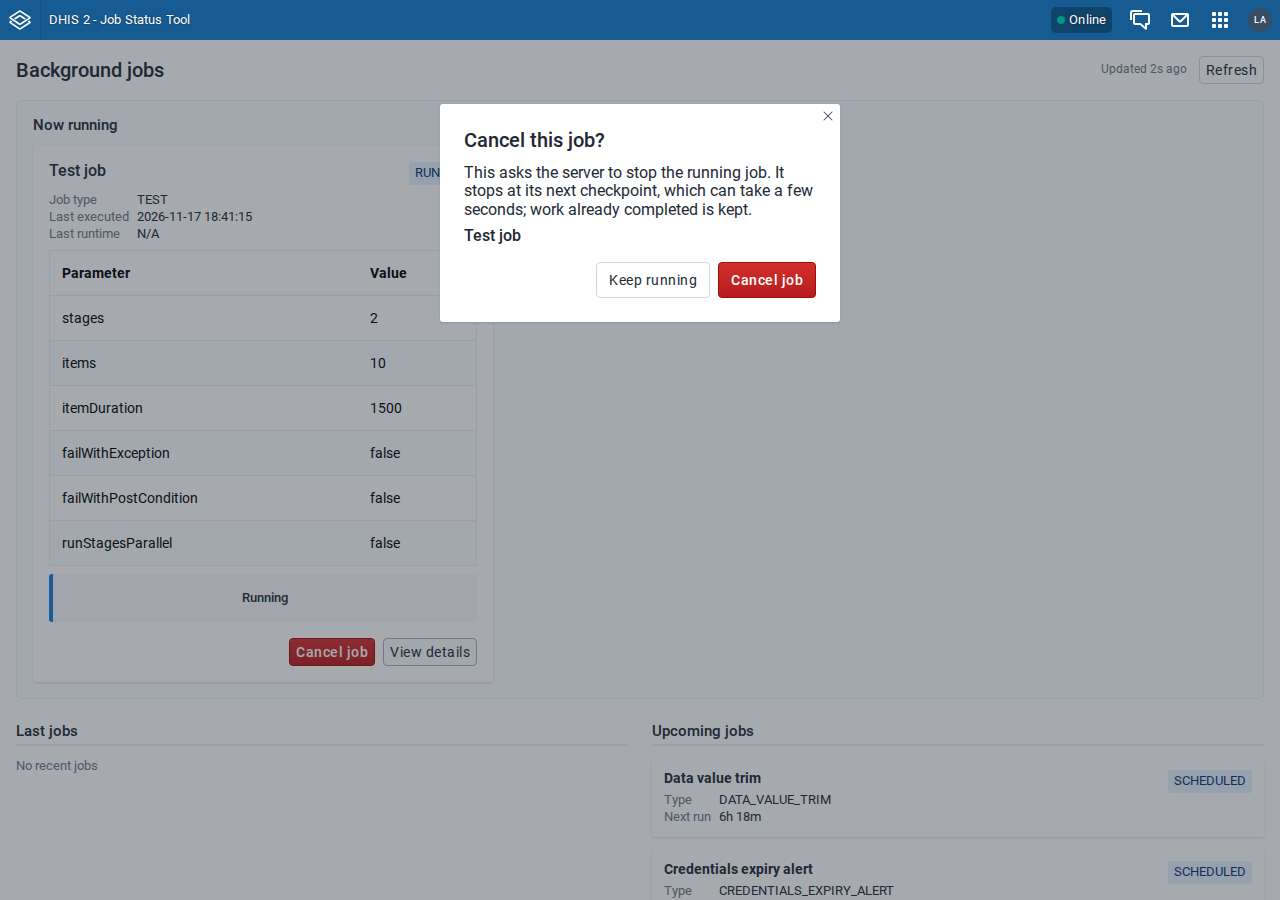
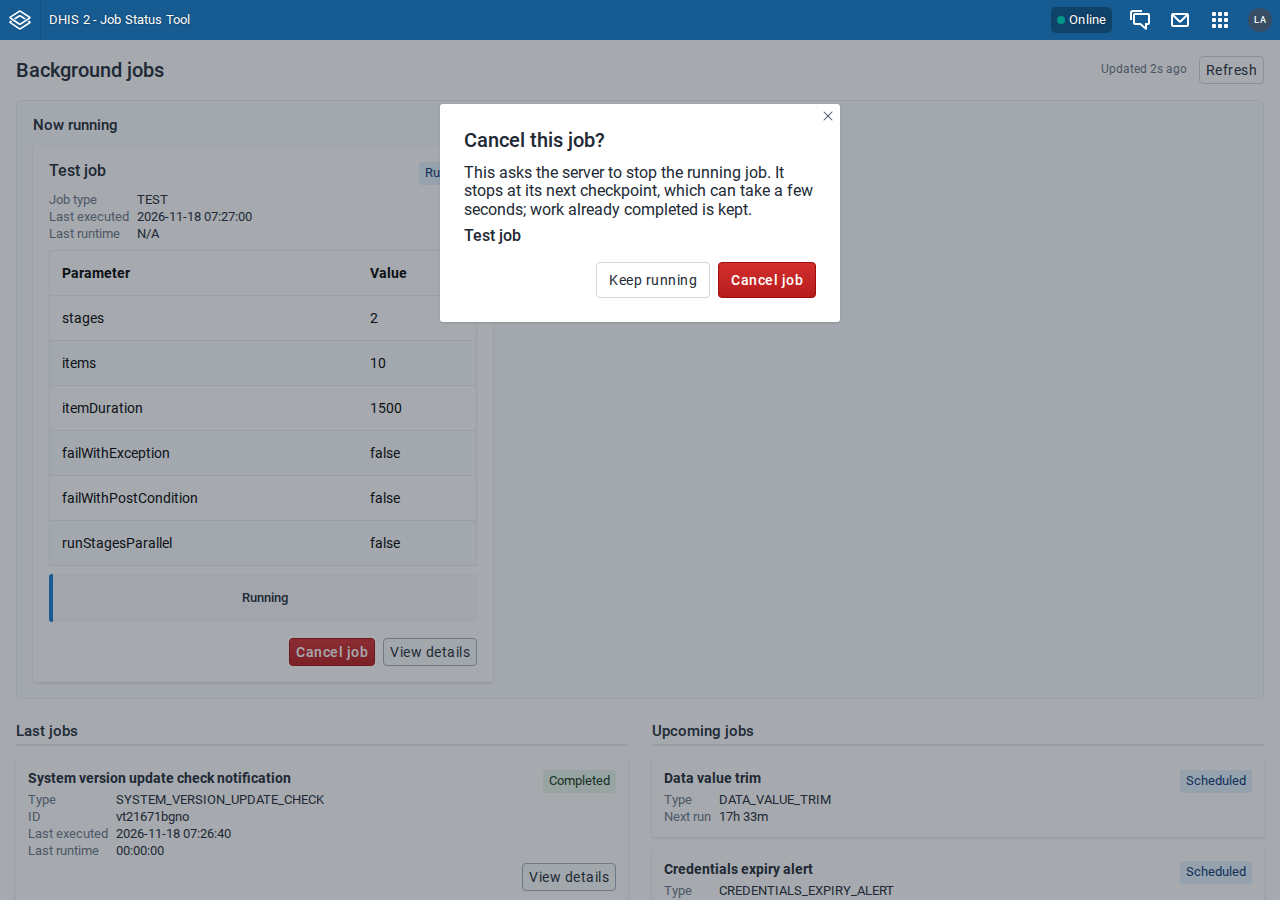
Translate the remaining fixed text; drop the pass-through test helper
The status tag shows a translatable label ("Completed") for the seven
statuses DHIS2 2.40-2.43 report, and an unknown status as the server
sent it. "Running", "Processing", "N/A", "Due now", the countdown units
and the prediction summary labels go through i18n.t; all keys checked
in the extracted en.pot. renderWithProviders was render under another
name; the component tests call render. User docs and screenshots
updated for the new labels.

diff --git a/src/utils/jobParsing.ts b/src/utils/jobParsing.ts
@@ -1,3 +1,4 @@
+import i18n from '@dhis2/d2-i18n'
 import type { JobParameters, Task } from '@/types/jobs'
 
 /*
@@ -36,7 +37,7 @@ export const deriveJobProgress = (tasks: Task[] | undefined): JobProgress => {
     )
     const latestMessage = latest?.message?.trim()
     if (!latest || !latestMessage) {
-        return { percentage: null, text: 'Running' }
+        return { percentage: null, text: i18n.t('Running') }
     }
 
     const match =
@@ -49,12 +50,15 @@ export const deriveJobProgress = (tasks: Task[] | undefined): JobProgress => {
         const actionTask = tasks?.find(
             (task) => task.level === 'INFO' && Boolean(task.message?.trim())
         )
-        const action = actionTask?.message?.trim() || 'Processing'
+        const action = actionTask?.message?.trim() || i18n.t('Processing')
         return { percentage, text: action }
     }
 
     return { percentage: null, text: latestMessage }
 }
+
+/** Shown for a value the API did not send. */
+const notAvailable = (): string => i18n.t('N/A')
 
 export interface PredictionSummary {
     status?: string
@@ -116,12 +120,27 @@ export const findPredictionSummary = (
 export const predictionSummaryRows = (
     summary: PredictionSummary
 ): Array<{ label: string; value: string }> => [
-    { label: 'Status', value: summary.status ?? 'N/A' },
-    { label: 'Predictors', value: summary.predictors ?? 'N/A' },
-    { label: 'Inserted values', value: summary.inserted ?? 'N/A' },
-    { label: 'Updated values', value: summary.updated ?? 'N/A' },
-    { label: 'Deleted values', value: summary.deleted ?? 'N/A' },
-    { label: 'Unchanged values', value: summary.unchanged ?? 'N/A' },
+    { label: i18n.t('Status'), value: summary.status ?? notAvailable() },
+    {
+        label: i18n.t('Predictors'),
+        value: summary.predictors ?? notAvailable(),
+    },
+    {
+        label: i18n.t('Inserted values'),
+        value: summary.inserted ?? notAvailable(),
+    },
+    {
+        label: i18n.t('Updated values'),
+        value: summary.updated ?? notAvailable(),
+    },
+    {
+        label: i18n.t('Deleted values'),
+        value: summary.deleted ?? notAvailable(),
+    },
+    {
+        label: i18n.t('Unchanged values'),
+        value: summary.unchanged ?? notAvailable(),
+    },
 ]
 
 /**
@@ -265,26 +284,27 @@ export const formatTimeUntil = (
     serverTimeZone?: string
 ): string => {
     if (!nextExecutionTime) {
-        return 'N/A'
+        return notAvailable()
     }
     const next = parseServerDateTime(nextExecutionTime, serverTimeZone)
     if (Number.isNaN(next)) {
-        return 'N/A'
+        return notAvailable()
     }
 
     const diffMinutes = Math.floor((next - now.getTime()) / 60000)
     if (diffMinutes <= 0) {
-        return 'Due now'
+        return i18n.t('Due now')
     }
 
     const days = Math.floor(diffMinutes / (60 * 24))
     const hours = Math.floor((diffMinutes % (60 * 24)) / 60)
     const minutes = diffMinutes % 60
 
+    // No colon in these keys: the i18n extractor reads ':' as a namespace.
     if (days > 0) {
-        return `${days}d ${hours}h`
+        return i18n.t('{{days}}d {{hours}}h', { days, hours })
     }
-    return `${hours}h ${minutes}m`
+    return i18n.t('{{hours}}h {{minutes}}m', { hours, minutes })
 }
 
 const pad = (n: number): string => String(n).padStart(2, '0')
@@ -297,7 +317,7 @@ const pad = (n: number): string => String(n).padStart(2, '0')
  */
 export const formatDateTime = (iso: string | undefined): string => {
     if (!iso) {
-        return 'N/A'
+        return notAvailable()
     }
     const date = new Date(iso)
     if (Number.isNaN(date.getTime())) {
@@ -315,7 +335,7 @@ export const formatDateTime = (iso: string | undefined): string => {
  */
 export const formatDuration = (duration: string | undefined): string => {
     if (!duration) {
-        return 'N/A'
+        return notAvailable()
     }
     return duration.split('.')[0]
 }

diff --git a/src/components/CancelJobButton.test.tsx b/src/components/CancelJobButton.test.tsx
@@ -1,10 +1,9 @@
-import { act, screen, within } from '@testing-library/react'
+import { act, render, screen, within } from '@testing-library/react'
 import userEvent from '@testing-library/user-event'
 import React from 'react'
 import { CANCEL_GRACE_MS, CancelJobButton } from '@/components/CancelJobButton'
 import * as useCanCancelJobsModule from '@/hooks/useCanCancelJobs'
 import * as useCancelJobModule from '@/hooks/useCancelJob'
-import { renderWithProviders } from '@/test-utils'
 import type { EnhancedJob } from '@/types/jobs'
 
 jest.mock('@/hooks/useCancelJob')
@@ -37,13 +36,13 @@ describe('CancelJobButton', () => {
         jest.spyOn(useCanCancelJobsModule, 'useCanCancelJobs').mockReturnValue(
             () => false
         )
-        const { container } = renderWithProviders(<CancelJobButton job={job} />)
+        const { container } = render(<CancelJobButton job={job} />)
         expect(container).toBeEmptyDOMElement()
     })
 
     it('asks for confirmation before cancelling', async () => {
         const user = userEvent.setup()
-        renderWithProviders(<CancelJobButton job={job} />)
+        render(<CancelJobButton job={job} />)
 
         expect(screen.queryByText('Cancel this job?')).not.toBeInTheDocument()
         await user.click(screen.getByTestId('cancel-job-button'))
@@ -53,7 +52,7 @@ describe('CancelJobButton', () => {
 
     it('does not cancel when the user keeps the job running', async () => {
         const user = userEvent.setup()
-        renderWithProviders(<CancelJobButton job={job} />)
+        render(<CancelJobButton job={job} />)
 
         await user.click(screen.getByTestId('cancel-job-button'))
         await user.click(screen.getByRole('button', { name: 'Keep running' }))
@@ -64,7 +63,7 @@ describe('CancelJobButton', () => {
 
     it('calls cancelJob with the job id on confirmation', async () => {
         const user = userEvent.setup()
-        renderWithProviders(<CancelJobButton job={job} />)
+        render(<CancelJobButton job={job} />)
 
         await user.click(screen.getByTestId('cancel-job-button'))
         const strip = screen.getByTestId('dhis2-uicore-buttonstrip')
@@ -82,7 +81,7 @@ describe('CancelJobButton', () => {
             opts?.onSettled?.()
         })
         const user = userEvent.setup()
-        renderWithProviders(<CancelJobButton job={job} />)
+        render(<CancelJobButton job={job} />)
 
         await user.click(screen.getByTestId('cancel-job-button'))
         const strip = screen.getByTestId('dhis2-uicore-buttonstrip')
@@ -105,7 +104,7 @@ describe('CancelJobButton', () => {
             const user = userEvent.setup({
                 advanceTimers: jest.advanceTimersByTime,
             })
-            renderWithProviders(<CancelJobButton job={job} />)
+            render(<CancelJobButton job={job} />)
 
             await user.click(screen.getByTestId('cancel-job-button'))
             const strip = screen.getByTestId('dhis2-uicore-buttonstrip')
@@ -133,9 +132,7 @@ describe('CancelJobButton', () => {
         })
         const user = userEvent.setup()
         const firstRun = { ...job, lastExecuted: '2026-09-03T10:00:00.000' }
-        const { rerender } = renderWithProviders(
-            <CancelJobButton job={firstRun} />
-        )
+        const { rerender } = render(<CancelJobButton job={firstRun} />)
 
         await user.click(screen.getByTestId('cancel-job-button'))
         const strip = screen.getByTestId('dhis2-uicore-buttonstrip')

diff --git a/src/components/JobStatusPage.test.tsx b/src/components/JobStatusPage.test.tsx
@@ -1,9 +1,8 @@
-import { screen } from '@testing-library/react'
+import { render, screen } from '@testing-library/react'
 import userEvent from '@testing-library/user-event'
 import React from 'react'
 import { JobStatusPage } from '@/components/JobStatusPage'
 import * as useJobsModule from '@/hooks/useJobs'
-import { renderWithProviders } from '@/test-utils'
 
 jest.mock('@/hooks/useJobs')
 // The details modal fetches task history; keep it inert for these tests.
@@ -33,20 +32,20 @@ describe('JobStatusPage', () => {
 
     it('shows a loader while the first fetch is in flight', () => {
         mockUseJobs({ isLoading: true })
-        renderWithProviders(<JobStatusPage />)
+        render(<JobStatusPage />)
         expect(screen.getByRole('progressbar')).toBeInTheDocument()
     })
 
     it('shows an error notice when the fetch fails', () => {
         mockUseJobs({ error: new Error('Network down') })
-        renderWithProviders(<JobStatusPage />)
+        render(<JobStatusPage />)
         expect(screen.getByText('Error loading jobs')).toBeInTheDocument()
         expect(screen.getByText('Network down')).toBeInTheDocument()
     })
 
     it('renders the empty running state and the two job lists', () => {
         mockUseJobs({ jobs: [] })
-        renderWithProviders(<JobStatusPage />)
+        render(<JobStatusPage />)
         expect(screen.getByText('No running jobs')).toBeInTheDocument()
         expect(screen.getByText('Last jobs')).toBeInTheDocument()
         expect(screen.getByText('Upcoming jobs')).toBeInTheDocument()
@@ -77,7 +76,7 @@ describe('JobStatusPage', () => {
                 },
             ],
         })
-        renderWithProviders(<JobStatusPage />)
+        render(<JobStatusPage />)
         expect(screen.getByText('Ran once')).toBeInTheDocument()
         expect(screen.queryByText('Never ran')).not.toBeInTheDocument()
     })
@@ -94,7 +93,7 @@ describe('JobStatusPage', () => {
             isRunning: false,
         }
         mockUseJobs({ jobs: [job] })
-        const { rerender } = renderWithProviders(<JobStatusPage />)
+        const { rerender } = render(<JobStatusPage />)
 
         await user.click(screen.getByRole('button', { name: 'View details' }))
         expect(screen.getByText(/Job details/)).toBeInTheDocument()

diff --git a/src/components/RunningJobs.test.tsx b/src/components/RunningJobs.test.tsx
@@ -1,7 +1,6 @@
-import { screen } from '@testing-library/react'
+import { render, screen } from '@testing-library/react'
 import React from 'react'
 import { RunningJobs } from '@/components/RunningJobs'
-import { renderWithProviders } from '@/test-utils'
 import type { EnhancedJob } from '@/types/jobs'
 
 // JobProgress polls the per-job endpoint and CancelJobButton mutates via the
@@ -32,14 +31,12 @@ const job = (overrides: Partial<EnhancedJob>): EnhancedJob => ({
 
 describe('RunningJobs', () => {
     it('shows the empty state when nothing is running', () => {
-        renderWithProviders(
-            <RunningJobs jobs={[]} onViewDetails={() => undefined} />
-        )
+        render(<RunningJobs jobs={[]} onViewDetails={() => undefined} />)
         expect(screen.getByText('No running jobs')).toBeInTheDocument()
     })
 
     it('excludes HOUSEKEEPING from the running view', () => {
-        renderWithProviders(
+        render(
             <RunningJobs
                 jobs={[
                     job({
@@ -55,7 +52,7 @@ describe('RunningJobs', () => {
     })
 
     it('renders an independent running job under "Now running"', () => {
-        renderWithProviders(
+        render(
             <RunningJobs
                 jobs={[job({ displayName: 'Lonely job' })]}
                 onViewDetails={() => undefined}
@@ -83,9 +80,7 @@ describe('RunningJobs', () => {
                 jobStatus: 'SCHEDULED',
             }),
         ]
-        renderWithProviders(
-            <RunningJobs jobs={jobs} onViewDetails={() => undefined} />
-        )
+        render(<RunningJobs jobs={jobs} onViewDetails={() => undefined} />)
         expect(screen.getByText('nightly')).toBeInTheDocument()
         expect(screen.getByText('First')).toBeInTheDocument()
         expect(screen.getByText('Second')).toBeInTheDocument()

diff --git a/src/components/JobStatusTag.tsx b/src/components/JobStatusTag.tsx
@@ -23,6 +23,28 @@ const tagColorForStatus = (
     }
 }
 
+/**
+ * Translatable labels for the statuses DHIS2 2.40-2.43 report. Functions, so
+ * that i18n.t runs at render time, after the locale has loaded.
+ */
+const STATUS_LABELS: Record<string, () => string> = {
+    RUNNING: () => i18n.t('Running'),
+    SCHEDULED: () => i18n.t('Scheduled'),
+    DISABLED: () => i18n.t('Disabled'),
+    COMPLETED: () => i18n.t('Completed'),
+    STOPPED: () => i18n.t('Stopped'),
+    FAILED: () => i18n.t('Failed'),
+    NOT_STARTED: () => i18n.t('Not started'),
+}
+
+/** A status this tool does not know is shown as the server sent it. */
+const statusLabel = (status: JobStatus | undefined): string => {
+    if (!status) {
+        return i18n.t('Unknown')
+    }
+    return STATUS_LABELS[status]?.() ?? status
+}
+
 export const JobStatusTag: React.FC<{ status?: JobStatus }> = ({ status }) => (
-    <Tag {...tagColorForStatus(status)}>{status || i18n.t('Unknown')}</Tag>
+    <Tag {...tagColorForStatus(status)}>{statusLabel(status)}</Tag>
 )

diff --git a/src/components/JobStatusTag.test.tsx b/src/components/JobStatusTag.test.tsx
@@ -1,0 +1,28 @@
+import { render, screen } from '@testing-library/react'
+import React from 'react'
+import { JobStatusTag } from '@/components/JobStatusTag'
+
+describe('JobStatusTag', () => {
+    it.each([
+        ['RUNNING', 'Running'],
+        ['SCHEDULED', 'Scheduled'],
+        ['DISABLED', 'Disabled'],
+        ['COMPLETED', 'Completed'],
+        ['STOPPED', 'Stopped'],
+        ['FAILED', 'Failed'],
+        ['NOT_STARTED', 'Not started'],
+    ])('shows %s as the translatable label "%s"', (status, label) => {
+        render(<JobStatusTag status={status} />)
+        expect(screen.getByText(label)).toBeInTheDocument()
+    })
+
+    it('shows a status it does not know as the server sent it', () => {
+        render(<JobStatusTag status="SOME_NEW_STATUS" />)
+        expect(screen.getByText('SOME_NEW_STATUS')).toBeInTheDocument()
+    })
+
+    it('shows "Unknown" without a status', () => {
+        render(<JobStatusTag />)
+        expect(screen.getByText('Unknown')).toBeInTheDocument()
+    })
+})

diff --git a/docs/user/tool-job-status.md b/docs/user/tool-job-status.md
@@ -62,7 +62,7 @@ The tool does not show the housekeeping job, which runs every minute.
 2. Click **Cancel job**.
 3. In the window **Cancel this job?**, click **Cancel job** to confirm. To leave the job running, click **Keep running**.
 
-   The button changes to **Cancelling…**. The job stops at its next checkpoint, which can take a few seconds. When it has stopped, it moves to **Last jobs** with the status STOPPED.
+   The button changes to **Cancelling…**. The job stops at its next checkpoint, which can take a few seconds. When it has stopped, it moves to **Last jobs** with the status **Stopped**.
 
 ![The Cancel this job? window](resources/images/tool-job-status/cancel.png)
 
@@ -73,5 +73,5 @@ If the job still runs 30 seconds after you cancelled it, the button **Cancel job
 - The tool shows what the DHIS2 API reports about jobs. It cannot always show the correct state. For example, if the server restarts while a job runs, DHIS2 can report the job as running after it has stopped.
 - Many job types do not report progress. For these jobs the progress line shows "Running" until the job ends.
 - On DHIS2 2.40, you cannot cancel jobs, because 2.40 has no cancel function in its API.
-- The tool shows the job type and parameter names as DHIS2 reports them, in English. Status names such as RUNNING and STOPPED are not translated.
+- The tool shows job types, such as ANALYTICS_TABLE, and job parameter names as DHIS2 reports them, in English. The messages in **Job details** come from the server, in the server's language.
 - The tool polls the server every three seconds while it is open. Close it when you do not need it, to save server load.

diff --git a/CHANGELOG.md b/CHANGELOG.md
@@ -8,10 +8,14 @@ All notable changes to this project will be documented in this file.
 
 - Lint and format with Ultracite (Oxlint and Oxfmt) over the DHIS2 house style,
   replacing ESLint and Prettier.
-- `minDHIS2Version` is set to 2.40 in `d2.config.js`, so it reaches the manifest.
+- `minDHIS2Version` is set to 2.40 in `d2.config.js`.
 - The end-to-end suite moved to `e2e/` and follows the `e2e/run.sh` contract of
   reference-tool-conventions.
 - User documentation in `docs/user/`.
+- Status tags show a translatable label ("Completed", "Stopped") instead of the
+  server's status code (`COMPLETED`, `STOPPED`), and the remaining fixed English
+  text ("N/A", "Due now", the countdown units, the prediction summary labels) can
+  be translated.
 
 ### Fixed
 
